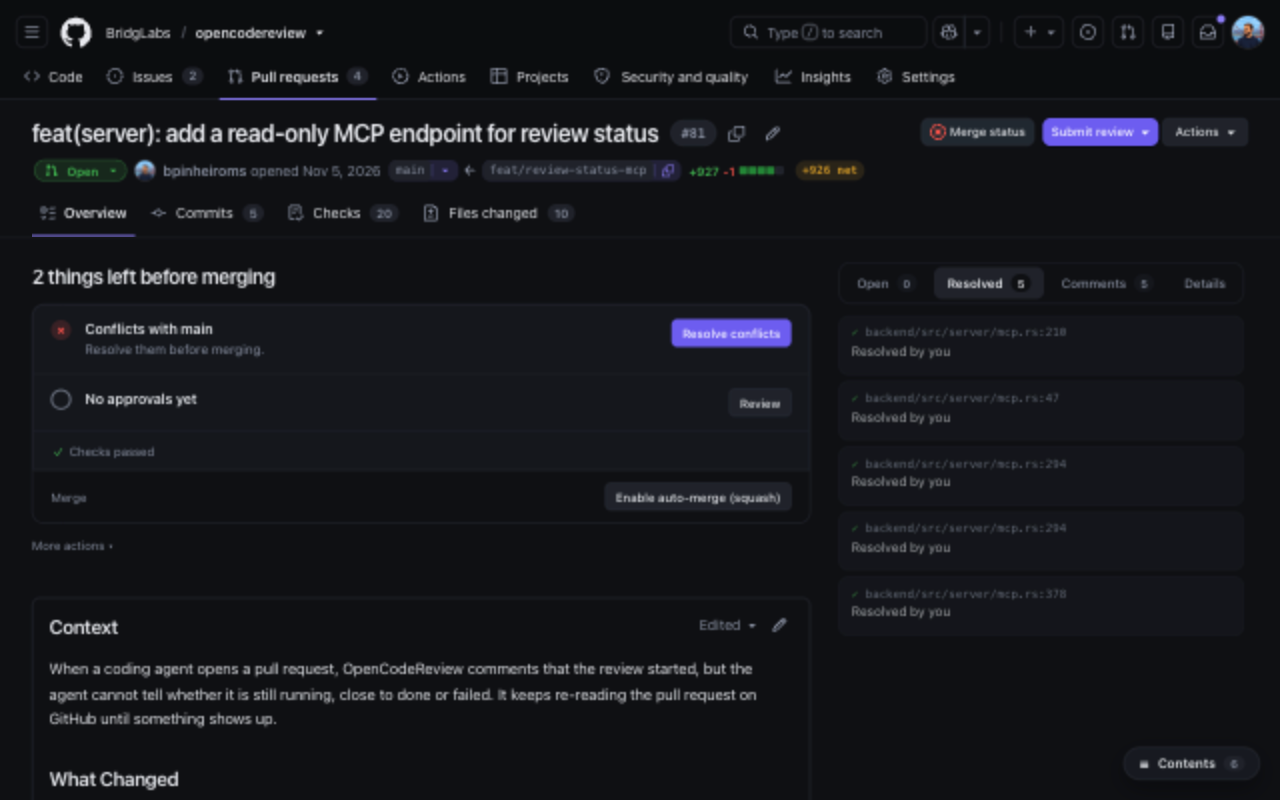
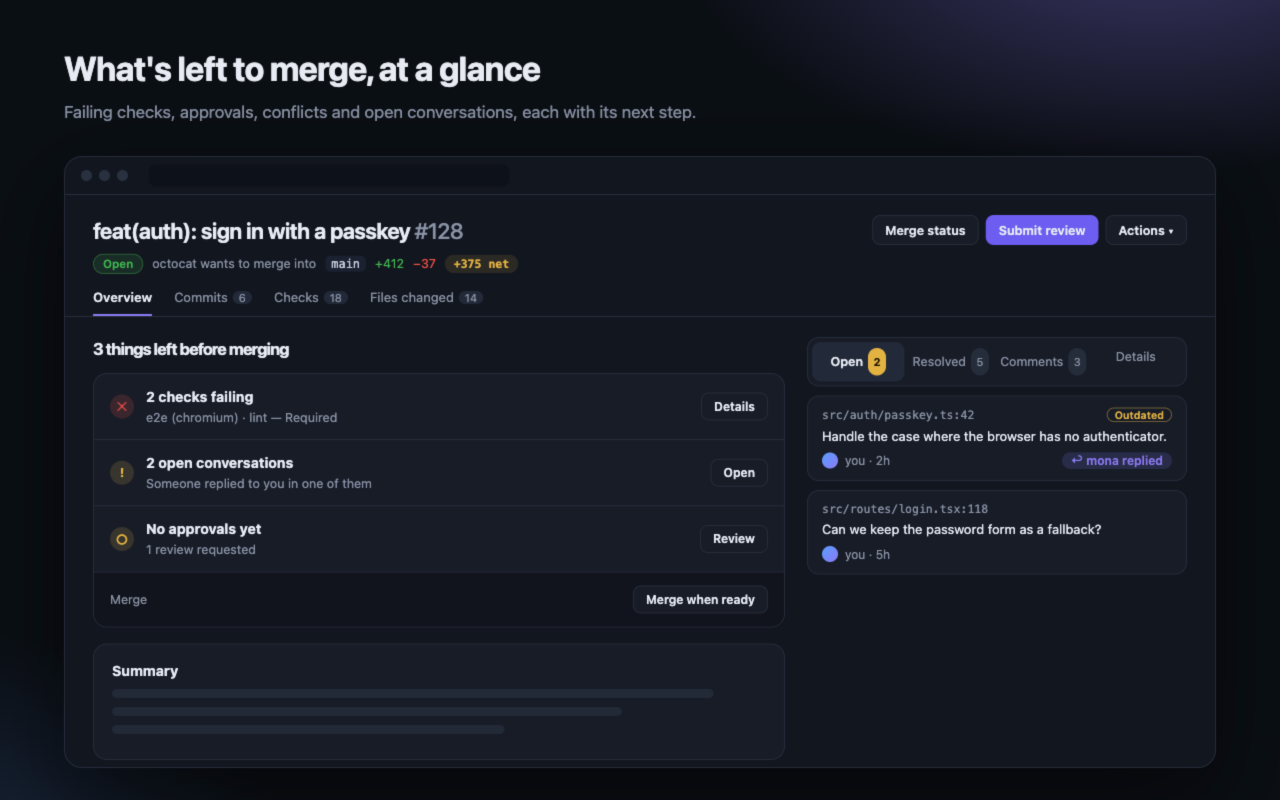
docs(store): illustrated screenshots instead of page captures (#2)
## Summary
- Replaces the blurry page captures with four illustrated 1280×800 store
screenshots, each with a caption: Overview, conversation drawer, Merge
status, lists.
- Sample data only (no real repositories or people), rendered at 2x for
sharp text, RGB without alpha as the store requires.
- Source in `store/screenshots.html` (`?s=1…4&zoom=2`);
`store/LISTING.md` updated.

🤖 Generated with [Claude Code](https://claude.com/claude-code)

diff --git a/store/screenshots.html b/store/screenshots.html
@@ -1,0 +1,248 @@
+<!doctype html>
+<html lang="en">
+<head>
+<meta charset="utf-8" />
+<title>Refine for GitHub — store screenshots</title>
+<style>
+  /* Chrome Web Store screenshots (1280×800). Open with ?s=1 … ?s=4 to render each one.
+     Illustrations based on the real extension, with sample data. */
+  :root {
+    --bg: #0b0e14; --panel: #12161f; --card: #171c27; --card2: #1d2331; --line: #262d3b; --mut: #8a93a6; --fg: #e8ecf3;
+    --acc: #8b7cf6; --acc2: #6d5df0; --ok: #3fb950; --warn: #e3b341; --bad: #f85149;
+  }
+  * { box-sizing: border-box; }
+  html, body { margin: 0; }
+  body {
+    width: 1280px; height: 800px; overflow: hidden; color: var(--fg);
+    font: 14px/1.4 "Inter", -apple-system, "SF Pro Text", system-ui, sans-serif;
+    background:
+      radial-gradient(800px 420px at 90% -10%, rgba(139,124,246,.38), transparent 60%),
+      radial-gradient(600px 420px at -5% 110%, rgba(91,157,255,.18), transparent 60%),
+      var(--bg);
+  }
+  .scene { display: none; position: relative; width: 1280px; height: 800px; }
+  .scene.on { display: block; }
+  .cap { position: absolute; left: 64px; top: 44px; right: 64px; }
+  .cap h1 { margin: 0; font-size: 34px; font-weight: 700; letter-spacing: -.025em; }
+  .cap p { margin: 8px 0 0; font-size: 17px; color: var(--mut); }
+  .win {
+    position: absolute; left: 64px; right: 64px; top: 156px; bottom: 32px; border-radius: 18px; background: var(--panel);
+    border: 1px solid var(--line); box-shadow: 0 30px 90px rgba(0,0,0,.55); overflow: hidden; display: flex; flex-direction: column;
+  }
+  .chrome { height: 38px; flex: none; display: flex; align-items: center; gap: 7px; padding: 0 16px; border-bottom: 1px solid var(--line); }
+  .chrome i { width: 11px; height: 11px; border-radius: 50%; background: #2a3140; }
+  .chrome .url { margin-left: 14px; height: 22px; width: 360px; border-radius: 7px; background: #0e121a; }
+  .head { padding: 20px 28px 0; display: flex; align-items: flex-start; gap: 14px; flex: none; }
+  .title { font-size: 22px; font-weight: 650; letter-spacing: -.02em; }
+  .num { color: var(--mut); font-weight: 500; }
+  .meta { display: flex; gap: 9px; align-items: center; margin-top: 8px; color: var(--mut); font-size: 12.5px; }
+  code { font: 12px ui-monospace, Menlo, monospace; background: #1b2130; padding: 1px 6px; border-radius: 5px; color: #c9d1e0; }
+  .pill { padding: 1px 9px; border-radius: 999px; font-weight: 600; font-size: 11.5px; }
+  .open { color: var(--ok); background: rgba(63,185,80,.14); border: 1px solid rgba(63,185,80,.35); }
+  .net { color: var(--warn); background: rgba(227,179,65,.12); font-family: ui-monospace, Menlo, monospace; }
+  .acts { margin-left: auto; display: flex; gap: 7px; }
+  .btn { height: 30px; padding: 0 12px; border-radius: 8px; border: 1px solid var(--line); background: var(--card); display: inline-flex; align-items: center; gap: 6px; font-size: 12.5px; font-weight: 600; color: var(--fg); white-space: nowrap; }
+  .btn.pri { background: var(--acc2); border-color: transparent; }
+  .tabs { display: flex; gap: 22px; padding: 14px 28px 0; border-bottom: 1px solid var(--line); font-size: 13px; color: var(--mut); flex: none; }
+  .tabs span { padding-bottom: 10px; } .tabs .on { color: var(--fg); font-weight: 600; box-shadow: inset 0 -2px 0 var(--acc); }
+  .tabs .c { margin-left: 5px; padding: 0 6px; border-radius: 999px; background: #232a39; font-size: 11px; }
+  .body { flex: 1; display: grid; grid-template-columns: 1fr 380px; gap: 22px; padding: 20px 28px; min-height: 0; }
+  h2 { margin: 0 0 12px; font-size: 17px; letter-spacing: -.01em; }
+  .box { border: 1px solid var(--line); border-radius: 14px; background: var(--card); overflow: hidden; }
+  .row { display: flex; align-items: center; gap: 12px; padding: 13px 16px; border-top: 1px solid var(--line); }
+  .row:first-child { border-top: 0; }
+  .ic { width: 24px; height: 24px; border-radius: 50%; display: grid; place-items: center; font-size: 13px; font-weight: 700; flex: none; }
+  .ic.bad { background: rgba(248,81,73,.16); color: var(--bad); }
+  .ic.warn { background: rgba(227,179,65,.16); color: var(--warn); }
+  .ic.ok { background: rgba(63,185,80,.16); color: var(--ok); }
+  .row b { display: block; font-size: 14px; } .row small { color: var(--mut); font-size: 12.5px; }
+  .row .btn { margin-left: auto; height: 28px; font-size: 12px; }
+  .merge { background: #10141c; color: var(--mut); font-size: 12.5px; }
+  .desc { margin-top: 16px; padding: 16px 18px; }
+  .line { height: 9px; border-radius: 5px; background: #222a38; margin: 9px 0; }
+  .side { display: flex; flex-direction: column; gap: 9px; min-height: 0; }
+  .seg { display: flex; padding: 4px; border-radius: 12px; border: 1px solid var(--line); background: var(--card); font-size: 12.5px; color: var(--mut); }
+  .seg span { flex: 1; text-align: center; padding: 6px 0; border-radius: 9px; white-space: nowrap; }
+  .seg .on { background: #232a39; color: var(--fg); font-weight: 600; }
+  .n { display: inline-block; min-width: 18px; padding: 0 5px; margin-left: 5px; border-radius: 999px; background: #262d3b; font-size: 11px; }
+  .seg .on .n { background: var(--warn); color: #1b1300; font-weight: 700; }
+  .th { border: 1px solid var(--line); border-radius: 12px; background: var(--card); padding: 11px 14px; }
+  .loc { font: 11.5px ui-monospace, Menlo, monospace; color: var(--mut); display: flex; justify-content: space-between; align-items: center; gap: 8px; }
+  .tag { font: 600 10.5px -apple-system, system-ui, sans-serif; color: var(--warn); border: 1px solid rgba(227,179,65,.45); border-radius: 999px; padding: 0 7px; }
+  .th p { margin: 5px 0 7px; font-size: 13px; }
+  .who { display: flex; align-items: center; gap: 7px; color: var(--mut); font-size: 12px; }
+  .av { width: 16px; height: 16px; border-radius: 50%; background: linear-gradient(135deg, #5b9dff, #8b7cf6); flex: none; }
+  .av.b { background: linear-gradient(135deg, #f78166, #e3b341); } .av.c { background: linear-gradient(135deg, #3fb950, #5b9dff); }
+  .rep { margin-left: auto; color: var(--acc); background: rgba(139,124,246,.16); border-radius: 999px; padding: 0 9px; font-weight: 600; }
+  /* right drawer */
+  .dim { position: absolute; inset: 38px 0 0 0; background: rgba(4,6,10,.45); }
+  .drawer { position: absolute; top: 38px; right: 0; bottom: 0; width: 470px; background: #141924; border-left: 1px solid #323a4c; box-shadow: -20px 0 60px rgba(0,0,0,.5); display: flex; flex-direction: column; }
+  .dh { height: 52px; flex: none; display: flex; align-items: center; justify-content: space-between; padding: 0 18px; border-bottom: 1px solid var(--line); font-weight: 650; }
+  .dh .x { color: var(--mut); font-weight: 400; font-size: 18px; }
+  .db { flex: 1; padding: 16px 18px; display: flex; flex-direction: column; gap: 10px; min-height: 0; }
+  .diff { border: 1px solid var(--line); border-radius: 10px; overflow: hidden; font: 12px/1.7 ui-monospace, Menlo, monospace; }
+  .diff .hd { background: #1a2030; color: var(--mut); padding: 6px 12px; display: flex; justify-content: space-between; }
+  .diff div.l { padding: 0 12px; color: #c4cbd8; white-space: pre; }
+  .diff .add { background: rgba(63,185,80,.13); }
+  .msg { display: flex; gap: 10px; }
+  .msg .av { width: 26px; height: 26px; margin-top: 2px; }
+  .bub { flex: 1; background: var(--card2); border-radius: 12px; padding: 9px 12px; font-size: 13px; color: #d5dbe6; }
+  .bub b { color: var(--fg); } .bub .t { color: var(--mut); font-size: 11.5px; margin-left: 6px; }
+  .compose { flex: none; padding: 14px 18px 18px; border-top: 1px solid var(--line); }
+  .ta { height: 66px; border-radius: 10px; border: 1.5px solid var(--acc); background: #10141c; padding: 10px 12px; color: var(--mut); font-size: 13px; }
+  .send { margin-top: 10px; display: flex; justify-content: flex-end; gap: 8px; }
+  /* merge status */
+  .sec { padding: 14px 18px; border-bottom: 1px solid var(--line); display: flex; gap: 12px; align-items: flex-start; }
+  .sec b { display: block; font-size: 14px; } .sec small { color: var(--mut); font-size: 12px; }
+  .grp { display: flex; align-items: center; gap: 10px; height: 34px; padding: 0 10px; border-radius: 8px; font-size: 13px; font-weight: 500; }
+  .grp:hover, .grp.hl { background: #1c2230; }
+  .dot { width: 8px; height: 8px; border-radius: 50%; flex: none; }
+  .grp .chev { margin-left: auto; color: var(--mut); }
+  .chk { display: flex; align-items: center; gap: 10px; padding: 7px 10px 7px 28px; font-size: 12.5px; }
+  .chk .s { color: var(--mut); }
+  .req { margin-left: auto; font-size: 10.5px; border: 1px solid var(--line); border-radius: 999px; padding: 0 7px; color: var(--mut); }
+  .people { padding: 2px 10px 8px 40px; display: flex; flex-direction: column; gap: 6px; font-size: 12.5px; }
+  .people span { display: flex; align-items: center; gap: 8px; }
+  /* lists */
+  .list { padding: 18px 28px; display: flex; flex-direction: column; gap: 7px; }
+  .filters { display: flex; align-items: center; gap: 8px; padding: 12px 28px 0; }
+  .search { flex: 1; height: 32px; border-radius: 9px; border: 1px solid var(--line); background: #0e121a; color: var(--mut); font: 12.5px ui-monospace, Menlo, monospace; display: flex; align-items: center; padding: 0 12px; }
+  .search em { font-style: normal; color: var(--acc); }
+  .st { display: inline-flex; align-items: center; gap: 6px; padding: 4px 10px; border-radius: 8px; color: var(--mut); font-size: 13px; }
+  .st.sel { background: #232a39; color: var(--fg); font-weight: 600; box-shadow: inset 0 -2px 0 var(--acc); }
+  .st .n { margin: 0; } .st.sel .n { background: rgba(139,124,246,.2); color: var(--acc); }
+  .pr { display: flex; align-items: center; gap: 12px; padding: 10px 14px; border: 1px solid var(--line); border-radius: 11px; background: var(--card); box-shadow: inset 3px 0 0 var(--ok); }
+  .pr .t { font-weight: 600; font-size: 13.5px; } .pr .m { color: var(--mut); font-size: 12px; }
+  .pr .r { margin-left: auto; display: flex; gap: 14px; color: var(--mut); font-size: 12px; align-items: center; }
+  .grpbtn { display: flex; align-items: center; gap: 10px; padding: 9px 14px; border: 1px dashed var(--line); border-radius: 11px; color: var(--mut); font-weight: 500; font-size: 13px; }
+  .gi { width: 26px; height: 26px; border-radius: 50%; display: grid; place-items: center; font-size: 13px; }
+  .gi.d { background: #232a39; } .gi.b { background: rgba(91,157,255,.16); color: #5b9dff; }
+  .ok { color: var(--ok); } .bad { color: var(--bad); }
+</style>
+</head>
+<body>
+
+<!-- 1. Overview -->
+<section class="scene" data-s="1">
+  <div class="cap"><h1>What's left to merge, at a glance</h1><p>Failing checks, approvals, conflicts and open conversations, each with its next step.</p></div>
+  <div class="win">
+    <div class="chrome"><i></i><i></i><i></i><span class="url"></span></div>
+    <div class="head">
+      <div>
+        <div class="title">feat(auth): sign in with a passkey <span class="num">#128</span></div>
+        <div class="meta"><span class="pill open">Open</span> octocat wants to merge into <code>main</code> <span class="ok">+412</span><span class="bad">−37</span><span class="pill net">+375 net</span></div>
+      </div>
+      <div class="acts"><span class="btn">Merge status</span><span class="btn pri">Submit review</span><span class="btn">Actions ▾</span></div>
+    </div>
+    <div class="tabs"><span class="on">Overview</span><span>Commits<span class="c">6</span></span><span>Checks<span class="c">18</span></span><span>Files changed<span class="c">14</span></span></div>
+    <div class="body">
+      <div>
+        <h2>3 things left before merging</h2>
+        <div class="box">
+          <div class="row"><span class="ic bad">✕</span><div><b>2 checks failing</b><small>e2e (chromium) · lint — Required</small></div><span class="btn">Details</span></div>
+          <div class="row"><span class="ic warn">!</span><div><b>2 open conversations</b><small>Someone replied to you in one of them</small></div><span class="btn">Open</span></div>
+          <div class="row"><span class="ic warn">○</span><div><b>No approvals yet</b><small>1 review requested</small></div><span class="btn">Review</span></div>
+          <div class="row merge"><span>Merge</span><span class="btn" style="margin-left:auto">Merge when ready</span></div>
+        </div>
+        <div class="box desc"><b>Summary</b><div class="line" style="width:92%"></div><div class="line" style="width:78%"></div><div class="line" style="width:60%"></div></div>
+      </div>
+      <div class="side">
+        <div class="seg"><span class="on">Open<span class="n">2</span></span><span>Resolved<span class="n">5</span></span><span>Comments<span class="n">3</span></span><span>Details</span></div>
+        <div class="th"><div class="loc">src/auth/passkey.ts:42 <span class="tag">Outdated</span></div><p>Handle the case where the browser has no authenticator.</p><div class="who"><span class="av"></span>you · 2h <span class="rep">↩ mona replied</span></div></div>
+        <div class="th"><div class="loc">src/routes/login.tsx:118</div><p>Can we keep the password form as a fallback?</p><div class="who"><span class="av"></span>you · 5h</div></div>
+      </div>
+    </div>
+  </div>
+</section>
+
+<!-- 2. Conversation drawer -->
+<section class="scene" data-s="2">
+  <div class="cap"><h1>Read and reply without losing your place</h1><p>Conversations open in a side drawer. Reply, or reply and resolve, in one step.</p></div>
+  <div class="win">
+    <div class="chrome"><i></i><i></i><i></i><span class="url"></span></div>
+    <div class="head"><div><div class="title">feat(auth): sign in with a passkey <span class="num">#128</span></div><div class="meta"><span class="pill open">Open</span> octocat wants to merge into <code>main</code></div></div></div>
+    <div class="tabs"><span class="on">Overview</span><span>Commits<span class="c">6</span></span><span>Checks<span class="c">18</span></span><span>Files changed<span class="c">14</span></span></div>
+    <div class="body"><div><h2>3 things left before merging</h2><div class="box"><div class="row"><span class="ic bad">✕</span><div><b>2 checks failing</b></div></div><div class="row"><span class="ic warn">!</span><div><b>2 open conversations</b></div></div><div class="row"><span class="ic warn">○</span><div><b>No approvals yet</b></div></div></div></div><div></div></div>
+    <div class="dim"></div>
+    <div class="drawer">
+      <div class="dh">Code conversation <span class="x">✕</span></div>
+      <div class="db">
+        <div class="diff">
+          <div class="hd"><span>src/auth/passkey.ts</span><span>line 42</span></div>
+          <div class="l">  const cred = await navigator.credentials.get({</div>
+          <div class="l add">+   publicKey: options,</div>
+          <div class="l add">+   mediation: "conditional",</div>
+          <div class="l">  });</div>
+        </div>
+        <div class="msg"><span class="av"></span><div class="bub"><b>you</b><span class="t">2h</span><br>Handle the case where the browser has no authenticator.</div></div>
+        <div class="msg"><span class="av b"></span><div class="bub"><b>mona</b><span class="t">35m</span><br>Added a fallback to the password form and a test for it. Can you take another look?</div></div>
+      </div>
+      <div class="compose">
+        <div class="ta">Looks good, thanks!</div>
+        <div class="send"><span class="btn">Reply and resolve</span><span class="btn pri">Reply ⌘↵</span></div>
+      </div>
+    </div>
+  </div>
+</section>
+
+<!-- 3. Merge status -->
+<section class="scene" data-s="3">
+  <div class="cap"><h1>Merge status you can scan</h1><p>Checks grouped by state, reviewers listed, the same right-side drawer everywhere.</p></div>
+  <div class="win">
+    <div class="chrome"><i></i><i></i><i></i><span class="url"></span></div>
+    <div class="head"><div><div class="title">feat(auth): sign in with a passkey <span class="num">#128</span></div><div class="meta"><span class="pill open">Open</span> octocat wants to merge into <code>main</code></div></div></div>
+    <div class="tabs"><span class="on">Overview</span><span>Commits<span class="c">6</span></span><span>Checks<span class="c">18</span></span><span>Files changed<span class="c">14</span></span></div>
+    <div class="body"><div><h2>2 things left before merging</h2><div class="box"><div class="row"><span class="ic bad">✕</span><div><b>1 check failing</b></div></div><div class="row"><span class="ic warn">!</span><div><b>2 open conversations</b></div></div></div></div><div></div></div>
+    <div class="dim"></div>
+    <div class="drawer">
+      <div class="dh">Merge status <span class="x">✕</span></div>
+      <div class="sec"><span class="ic ok">✓</span><div><b>Changes approved</b><small>1 approving review by reviewers with write access.</small></div></div>
+      <div style="padding:6px 8px; border-bottom:1px solid var(--line)">
+        <div class="grp"><span class="ok">✓</span> 1 approval <span class="chev">⌄</span></div>
+        <div class="people"><span><i class="av b"></i>mona</span></div>
+        <div class="grp"><span style="color:var(--mut)">◌</span> 1 pending review <span class="chev">⌄</span></div>
+        <div class="people"><span><i class="av c"></i>hubot</span></div>
+      </div>
+      <div class="sec"><span class="ic warn">◔</span><div><b>Some checks haven't completed yet</b><small>1 failing, 2 pending, 1 in progress, 2 skipped, 16 successful</small></div></div>
+      <div style="padding:6px 8px">
+        <div class="grp hl"><span class="dot" style="background:var(--bad)"></span>1 failing check <span class="chev">⌄</span></div>
+        <div class="chk"><span class="bad">✕</span> e2e (chromium) <span class="s">Failing after 4m</span><span class="req">Required</span></div>
+        <div class="grp"><span class="dot" style="background:var(--warn)"></span>2 pending checks <span class="chev">›</span></div>
+        <div class="grp"><span class="dot" style="background:var(--acc); box-shadow:0 0 0 3px rgba(139,124,246,.25)"></span>1 in progress check <span class="chev">›</span></div>
+        <div class="grp"><span class="dot" style="background:var(--mut)"></span>2 skipped checks <span class="chev">›</span></div>
+        <div class="grp"><span class="dot" style="background:var(--ok)"></span>16 successful checks <span class="chev">›</span></div>
+      </div>
+    </div>
+  </div>
+</section>
+
+<!-- 4. Lists -->
+<section class="scene" data-s="4">
+  <div class="cap"><h1>Cleaner pull request lists</h1><p>Cards with a state stripe. Drafts and dependency updates grouped at the end.</p></div>
+  <div class="win">
+    <div class="chrome"><i></i><i></i><i></i><span class="url"></span></div>
+    <div class="filters">
+      <span class="st sel">Open <span class="n">12</span></span><span class="st">Closed <span class="n">412</span></span>
+      <span class="search" style="margin-left:12px">is:<em>pr</em>&nbsp;state:<em>open</em></span>
+    </div>
+    <div class="list">
+      <div class="pr"><span class="ok">⇄</span><div><div class="t">feat(auth): sign in with a passkey</div><div class="m">#128 · octocat · updated 2h ago</div></div><div class="r"><span class="bad">✕ 16/18</span><span>💬 4</span></div></div>
+      <div class="pr"><span class="ok">⇄</span><div><div class="t">fix(api): retry the upload when storage returns 503</div><div class="m">#127 · mona · updated 5h ago</div></div><div class="r"><span class="ok">✓ 18/18</span><span>💬 2</span></div></div>
+      <div class="pr"><span class="ok">⇄</span><div><div class="t">perf(search): debounce the query input</div><div class="m">#125 · hubot · updated yesterday</div></div><div class="r"><span class="ok">✓ 18/18</span><span>💬 7</span></div></div>
+      <div class="pr"><span class="ok">⇄</span><div><div class="t">refactor(ui): extract the toast component</div><div class="m">#123 · octocat · updated 2 days ago</div></div><div class="r"><span class="ok">✓ 18/18</span><span>💬 1</span></div></div>
+      <div class="pr"><span class="ok">⇄</span><div><div class="t">docs: explain the release process</div><div class="m">#121 · mona · updated 3 days ago</div></div><div class="r"><span class="ok">✓ 18/18</span><span>💬 0</span></div></div>
+      <div class="grpbtn"><span class="gi d">⋮</span>3 drafts<span style="margin-left:auto">›</span></div>
+      <div class="grpbtn"><span class="gi b">⚙</span>4 dependency updates<span style="margin-left:auto">›</span></div>
+    </div>
+  </div>
+</section>
+
+<script>
+  const q = new URLSearchParams(location.search);
+  const s = q.get("s") || "1";
+  // ?zoom=2 renders at 2x (viewport 2560×1600) for a sharper capture, then scaled to 1280×800.
+  if (q.get("zoom")) document.documentElement.style.zoom = q.get("zoom");
+  document.querySelector(`.scene[data-s="${s}"]`).classList.add("on");
+</script>
+</body>
+</html>

diff --git a/store/LISTING.md b/store/LISTING.md
@@ -52,10 +52,11 @@ PRIVATE BY DESIGN
 • No analytics, no tracking, no remote code. Your two settings (on/off and accent color) are stored with Chrome sync storage.
 ```
 
-**Screenshots** (1280×800): `store/screenshots/`
-1. `1-overview.png` — Overview with "things left before merging" and the side panel
-2. `2-conversation-drawer.png` — a code conversation opened in the drawer
-3. `3-files-changed.png` — Files changed with the unified header
+**Screenshots** (1280×800, illustrations with sample data; source in `store/screenshots.html`, render each with `?s=1…4&zoom=2` at a 2560×1600 viewport): `store/screenshots/`
+1. `1-overview.png` — "What's left to merge, at a glance"
+2. `2-conversation-drawer.png` — "Read and reply without losing your place"
+3. `3-merge-status.png` — "Merge status you can scan"
+4. `4-lists.png` — "Cleaner pull request lists"
 
 **Small promo tile** (440×280): `store/promo-small-440x280.png`
 **Marquee promo tile** (1400×560, optional): `store/promo-marquee-1400x560.png`
